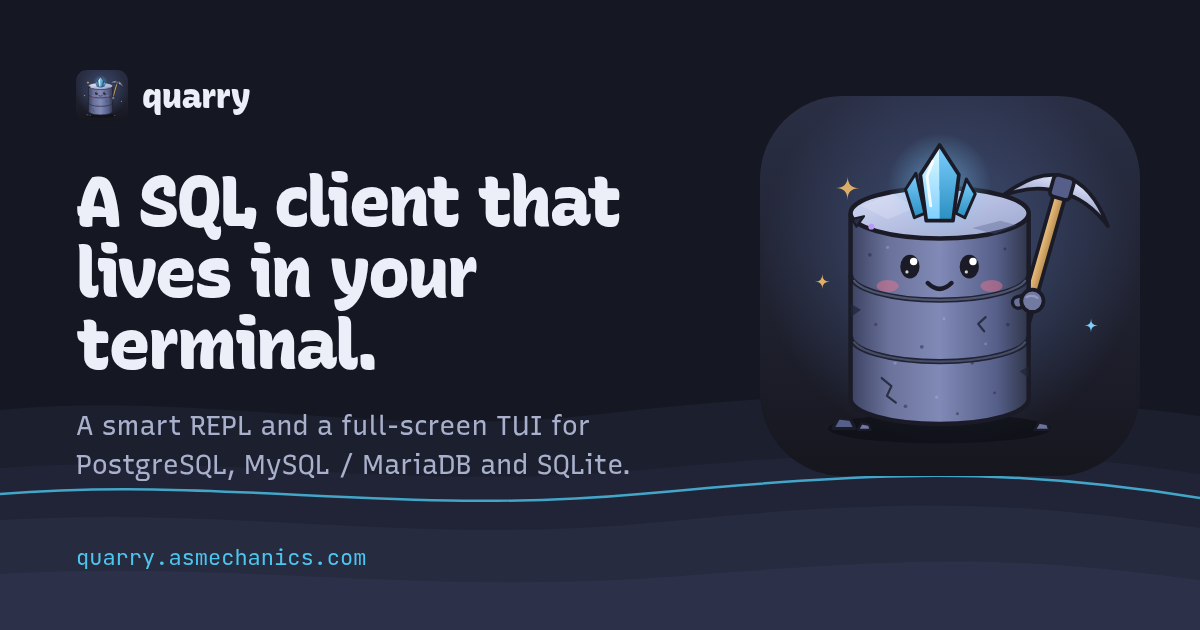
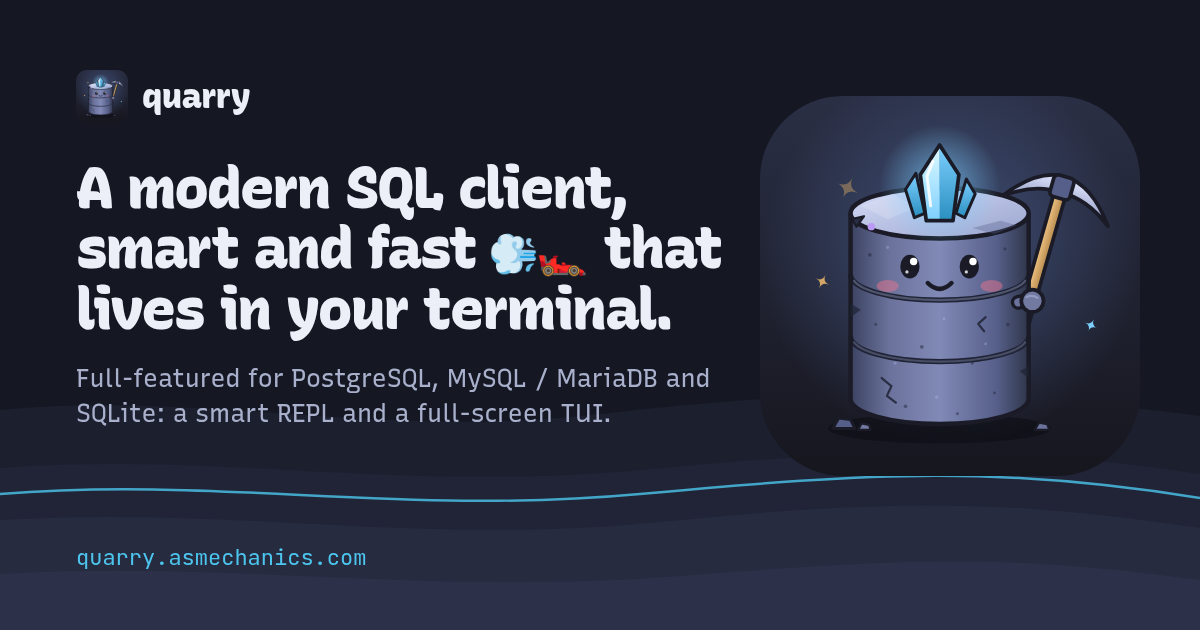
Docs: share image, title and descriptions follow the new headline

Changed region(s): [[0.0617, 0.2413, 0.6167, 0.6937], [0.0617, 0.7238, 0.5242, 0.754], [0.6783, 0.2714, 0.7092, 0.3016]]

diff --git a/docs/.vitepress/og.html b/docs/.vitepress/og.html
@@ -25,9 +25,11 @@
   .brand { display: flex; align-items: center; gap: 14px; font-size: 34px; font-weight: 850;
     font-variation-settings: 'CASL' 0.8; letter-spacing: -0.02em; }
   .brand img { width: 52px; height: 52px; }
-  h1 { margin: 44px 0 0; font-size: 70px; line-height: 1.02; font-weight: 850;
+  h1 { margin: 36px 0 0; font-size: 58px; line-height: 1.04; font-weight: 850;
     font-variation-settings: 'CASL' 1; letter-spacing: -0.035em; }
-  p { margin: 26px 0 0; font-size: 27px; line-height: 1.45; color: #a9b0cc; }
+  /* as on the home page: a little smaller than the words, facing right */
+  .zoom { display: inline-block; font-size: 0.7em; transform: scaleX(-1); }
+  p { margin: 22px 0 0; font-size: 25px; line-height: 1.42; color: #a9b0cc; }
   .url { position: absolute; left: 76px; bottom: 58px; font-family: 'JetBrains Mono', monospace;
     font-size: 22px; color: #4cc6ee; }
   .mascot { position: absolute; right: 60px; top: 96px; width: 380px; height: 380px; }
@@ -43,8 +45,8 @@
   </svg>
   <div class="copy">
     <div class="brand"><img src="../public/logo.svg" alt="">quarry</div>
-    <h1>A SQL client that lives in your terminal.</h1>
-    <p>A smart REPL and a full-screen TUI for PostgreSQL, MySQL / MariaDB and SQLite.</p>
+    <h1>A modern SQL client, smart and fast <span class="zoom">🏎💨</span> that lives in your terminal.</h1>
+    <p>Full-featured for PostgreSQL, MySQL / MariaDB and SQLite: a smart REPL and a full-screen TUI.</p>
   </div>
   <img class="mascot" src="../public/logo.svg" alt="">
   <div class="url">quarry.asmechanics.com</div>

diff --git a/docs/index.md b/docs/index.md
@@ -1,8 +1,8 @@
 ---
 layout: false
 title: quarry
-titleTemplate: A SQL client for your terminal
-description: A fast SQL client for the terminal. A smart REPL and a full-screen TUI for PostgreSQL, MySQL / MariaDB and SQLite, in one binary.
+titleTemplate: A modern SQL client for your terminal
+description: A modern, full-featured SQL client, smart and fast, that lives in your terminal. A smart REPL and a full-screen TUI for PostgreSQL, MySQL / MariaDB and SQLite, in one binary.
 ---
 
 <HomePage />
